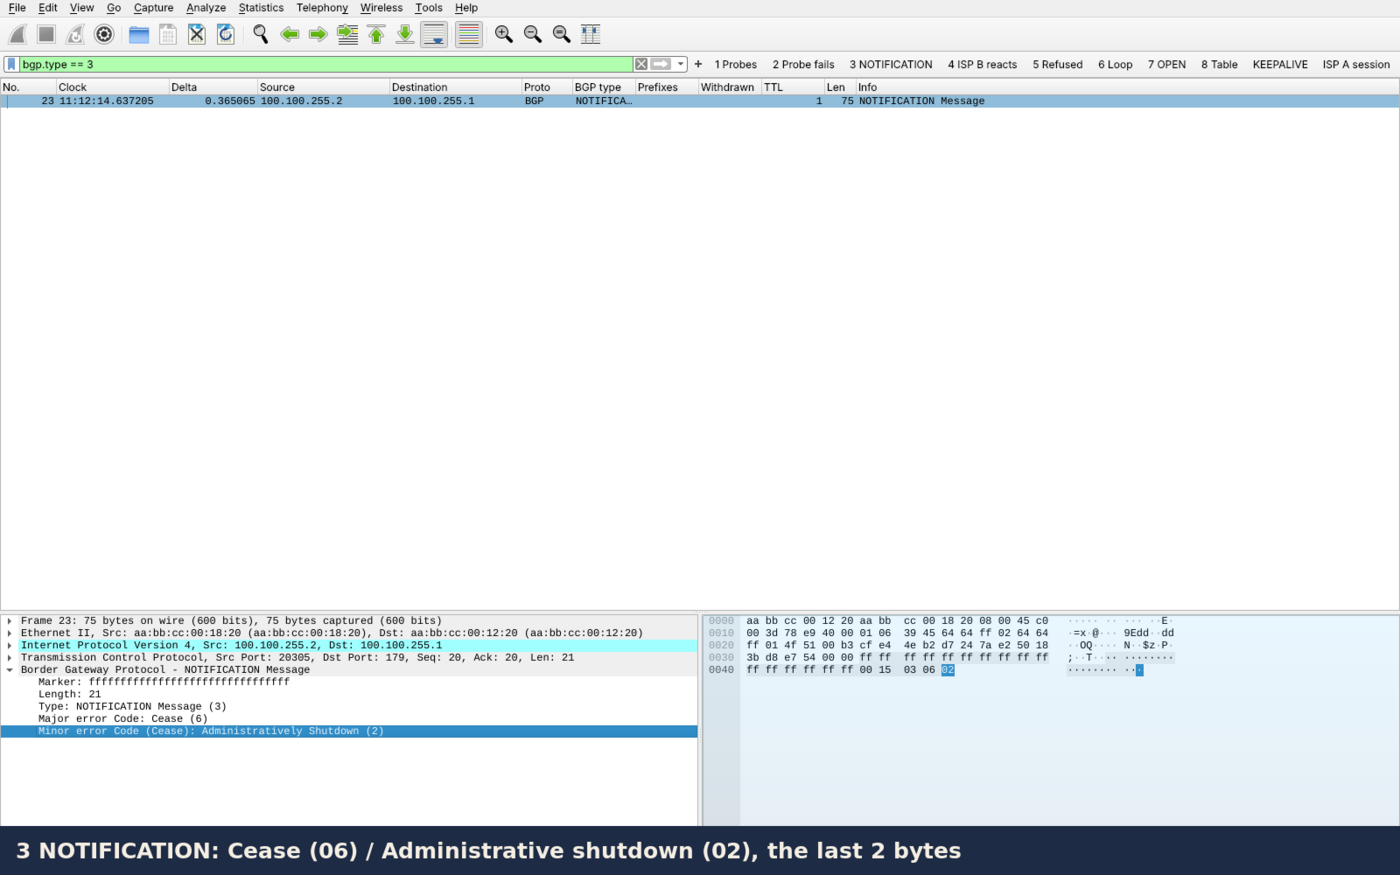
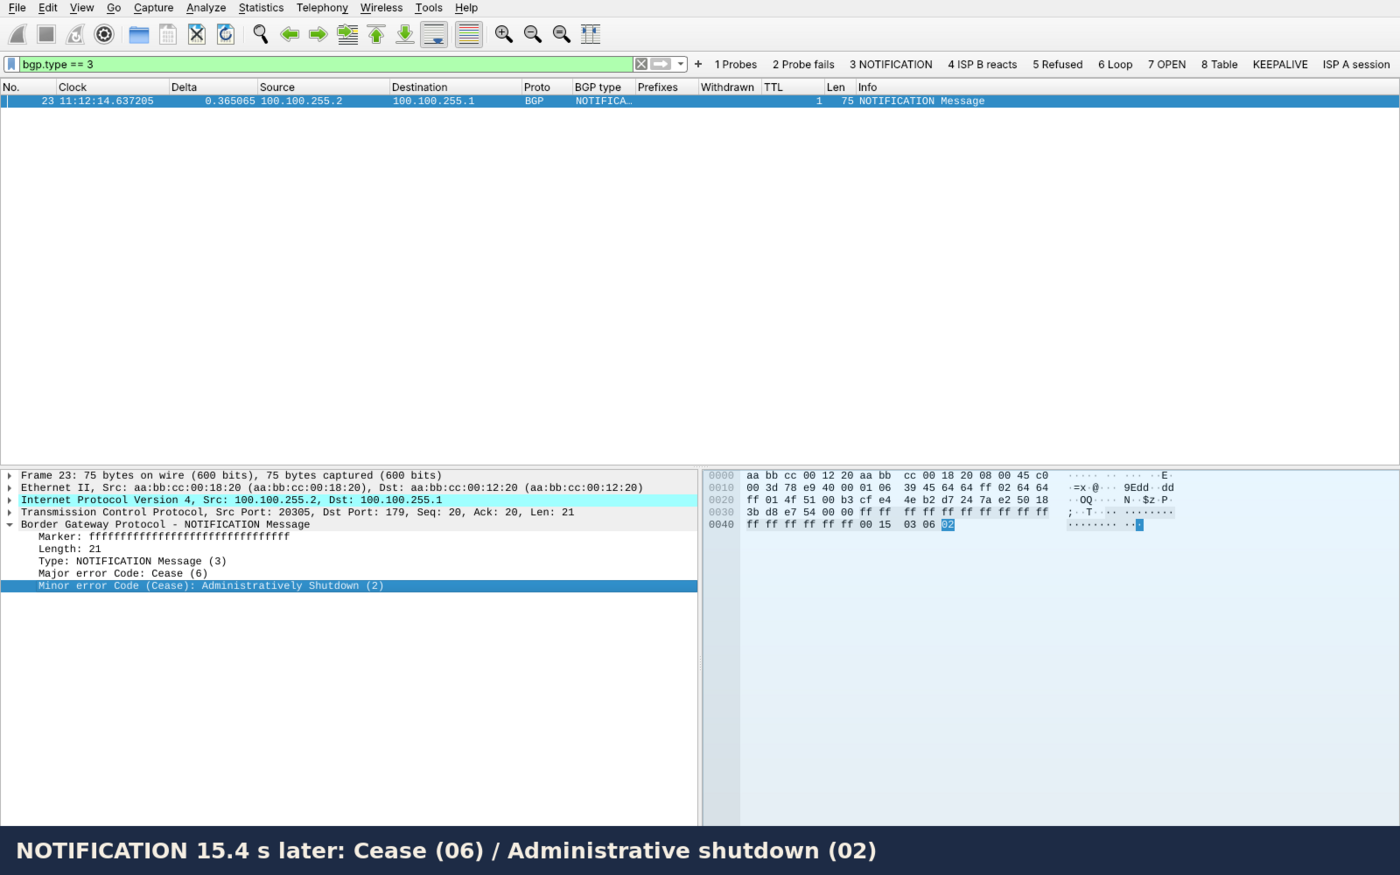
CASE-009: two scripted Wireshark GIFs (ISP A down and back, ISP B and the loop) + 9 stills; profile colors fixed (background first); CASE-004 profile colors fixed
Claude-Session: https://claude.ai/code/session_01Vtq4XihvvpGP99AqcpPMDs

Changed region(s): [[0.0, 0.5246, 1.0, 0.864], [0.0, 0.0926, 1.0, 0.1234], [0.0, 0.9566, 0.7064, 0.9874]]

diff --git a/cases/CASE-009-BGP/README.md b/cases/CASE-009-BGP/README.md
@@ -83,14 +83,21 @@ What fits the logs: during the break R1's default route is OSPF via R2 (`_2-duri
 
 ## On your own in Wireshark
 
-![Wireshark with the ALMNJOY-BGP profile: probes, NOTIFICATION, refused SYNs, OPEN, table](img/wireshark-walkthrough.gif)
+**The ISP A link (P1): down and back**
 
-*Real Wireshark 4.2 with the ALMNJOY-BGP profile, clicking the filter buttons. The highlighted field's bytes light up in the byte pane.*
+![P1 in Wireshark with the ALMNJOY-BGP profile: keepalive, probes refused, NOTIFICATION, refused reconnects, OPEN, route refresh, table](img/isp-a-down-and-back.gif)
 
-| NOTIFICATION: minor code 02 selected | OPEN: My AS `fd e9` selected | Frame 121: 8 BGP messages, End-of-RIB selected |
+**The ISP B link (P2): ISP B reacts, and the loop**
+
+![P2 in Wireshark: ISP B's UPDATE, the looping FINs, the TTL-exceeded quoting TTL 1](img/isp-b-and-the-loop.gif)
+
+*Real Wireshark 4.2 with the ALMNJOY-BGP profile, driven by a script (`wireshark/shots.json`). Each step applies a filter, selects the packet and the key field; Wireshark lights up that field's bytes on the right.*
+
+| | | |
 |---|---|---|
-| ![](img/wireshark-notification-cease-admin-shutdown.png) | ![](img/wireshark-open-my-as.png) | ![](img/wireshark-one-segment-eight-messages.png) |
-
+| ![](img/wireshark-keepalive.png) KEEPALIVE: header only | ![](img/wireshark-probe-refused.png) Probe refused: ICMP 3/13 | ![](img/wireshark-notification-cease-admin-shutdown.png) NOTIFICATION: `06 02` |
+| ![](img/wireshark-open-my-as.png) OPEN: My AS `fd e9` | ![](img/wireshark-open-capabilities.png) OPEN: capabilities | ![](img/wireshark-route-refresh-borr.png) ROUTE-REFRESH: BoRR |
+| ![](img/wireshark-one-segment-eight-messages.png) Frame 121: 8 messages, End-of-RIB | ![](img/wireshark-ispb-update.png) ISP B's UPDATE | ![](img/wireshark-ttl-exceeded.png) TTL-exceeded: quoted TTL 1 |
 
 1. Import `wireshark/ALMNJOY-BGP-profile.zip` (Edit > Configuration Profiles > Import from zip) and switch to **ALMNJOY-BGP**. The columns show clock time, the BGP type of every message in the segment, prefixes, withdrawn prefixes and TTL. Colors: NOTIFICATION red, OPEN green, UPDATE blue, End-of-RIB pale blue, ROUTE-REFRESH purple, TTL-exceeded orange.
 2. Open **P1**. Click the buttons in order:
